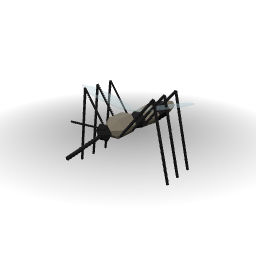
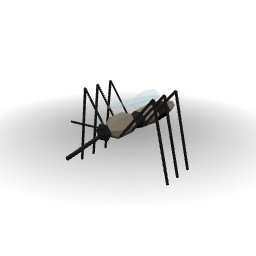
Fly and mosquito: fix review findings (wings cross, legs through wings, legs forward)
First review (Opus) found, and measured on the exported GLBs:
- the folded wings lie in parallel planes and crossed on the midline
  (fly: moved outward by about the wing's width; mosquito: the right wing
  held 0.25 mm above the left, both lifted off the legs' thighs)
- the mosquito's trailing legs swung forward under the head (sign of the X
  turn); they now trail back, and droop further so they clear the wings
- the two thumbnails still showed the spread wings; regenerated
- the housefly docstring mentions the folded Idle

Changed region(s): [[0.4688, 0.3438, 0.7188, 0.4375], [0.3125, 0.3125, 0.4375, 0.4375]]

diff --git a/art/scripts/insect_anim.py b/art/scripts/insect_anim.py
@@ -88,22 +88,24 @@ def idle_flyer(rig, t, rest=6.0, fan=4.0):
     wings(rig, "WingH", fan * math.sin(w + 0.8))
 
 
-def fold_wings(rig, prefix="Wing", back=72.0, down=14.0):
-    """Wings laid back along the body, as a fly or mosquito holds them when landed: swung back about Z, then the tail end dropped about X to follow the back."""
+def fold_wings(rig, prefix="Wing", back=72.0, down=14.0, spread=0.0, lift=0.0, gap=0.0):
+    """Wings laid back along the body, as a fly or mosquito holds them when landed: swung back about Z, then the tail end dropped about X to follow the back.
+    Folded, the two wings lie in parallel planes and would cross on the midline, so they are kept apart by `spread` (mm outward, about the wing's width: side by side
+    like a roof) or by `gap` (the right wing that many mm above the left, overlapping like a landed fly's); `lift` raises both."""
     for name, s in sides(rig, prefix):
-        turn(rig, name, z=s * back)
+        turn(rig, name, z=s * back, shift=(s * spread * MM, 0, (lift + (gap if s < 0 else 0.0)) * MM))
         turn(rig, name, x=-down)
 
 
-def idle_folded(rig, t):
-    """Landed: wings folded back over the abdomen (a small shiver), the antennae feel about."""
+def idle_folded(rig, t, spread=0.0, lift=0.0, gap=0.0):
+    """Landed: wings folded back over the abdomen (a small shiver), the antennae feel about (a housefly has none)."""
     w = 2 * math.pi * t
     turn(rig, "Body", x=1.2 * math.sin(w))
     antennae(rig, w)
-    fold_wings(rig, back=72.0 + 2.0 * math.sin(w))
+    fold_wings(rig, back=72.0 + 2.0 * math.sin(w), spread=spread, lift=lift, gap=gap)
 
 
-def hang_legs(rig, x=-55.0, droop=42.0):
+def hang_legs(rig, x=70.0, droop=50.0):
     """Legs dangling in flight: each swung down about Y from the hip and trailing back about X, so the high knees fall below the wings' stroke."""
     for name, s in sides(rig, "Leg"):
         turn(rig, name, y=s * droop)
@@ -208,8 +210,8 @@ MOTIONS = {
     "butterfly": (("Idle", idle_butterfly, 48, 24), ("Fly", lambda r, t: fly(r, t, 38.0, 14.0, 0.0015, 3.0), 8, 24)),
     "moth": (("Idle", idle_flyer, 48, 24), ("Fly", lambda r, t: fly(r, t, 34.0, 12.0, 0.001, 2.5), 6, 24)),
     "buzz": (("Idle", idle_flyer, 48, 24), ("Fly", lambda r, t: fly(r, t, 38.0, 12.0, 0.0, 0.0), 4, 24)),
-    "fold": (("Idle", idle_folded, 48, 24), ("Fly", lambda r, t: fly(r, t, 38.0, 12.0, 0.0, 0.0), 4, 24)),
-    "mosquito": (("Idle", idle_folded, 48, 24), ("Fly", lambda r, t: fly_hanging_legs(r, t, 38.0, 12.0), 4, 24)),
+    "fold": (("Idle", lambda r, t: idle_folded(r, t, spread=1.12), 48, 24), ("Fly", lambda r, t: fly(r, t, 38.0, 12.0, 0.0, 0.0), 4, 24)),
+    "mosquito": (("Idle", lambda r, t: idle_folded(r, t, lift=0.25, gap=0.25), 48, 24), ("Fly", lambda r, t: fly_hanging_legs(r, t, 38.0, 12.0), 4, 24)),
     "dragonfly": (("Idle", idle_flyer, 48, 24), ("Fly", lambda r, t: fly(r, t, 26.0, 4.0, 0.0, 0.0, counter=True), 6, 24)),
     "walk": (("Idle", idle_walker, 48, 24), ("Walk", walk, 24, 24)),
     "spider": (("Idle", idle_spider, 48, 24), ("Walk", lambda r, t: walk(r, t, swing=15.0, lift=14.0), 24, 24)),

diff --git a/art/scripts/insects.py b/art/scripts/insects.py
@@ -439,7 +439,7 @@ def stink_bug():
 
 @critter("flyers", "Housefly")
 def housefly():
-    """A housefly (about 7 mm): a grey thorax and abdomen, big red eyes, two clear wings held out over the back, bristly black legs."""
+    """A housefly (about 7 mm): a grey thorax and abdomen, big red eyes, two clear wings held out over the back (folded back along it when landed in the rigged Idle clip), bristly black legs."""
     p = new("GN_Housefly_01")
     p.motion = "fold"
     blob(p, "fabric_grey", (0, 1.9, 2.0), (1.4, 2.1, 1.2), n=6, rings=2)                    # abdomen
